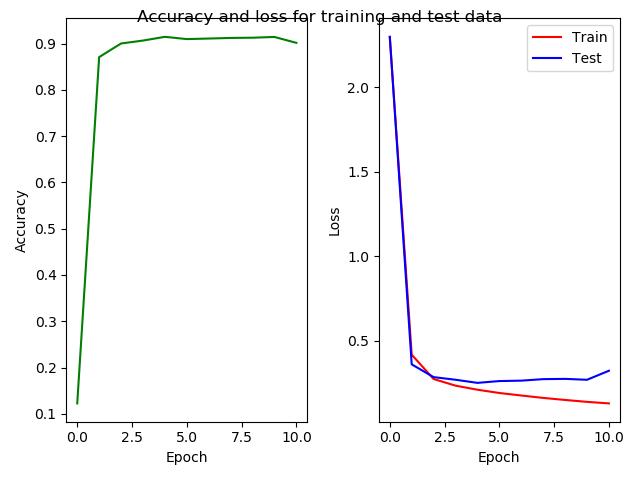
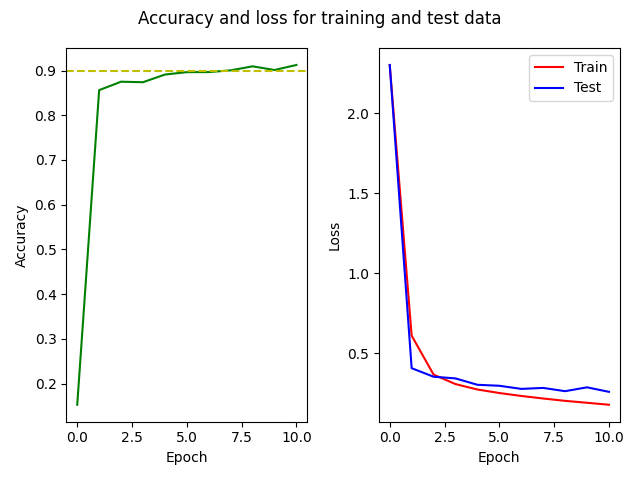
Change layer structure to increase performance

diff --git a/Homework 05/MyModel.py b/Homework 05/MyModel.py
@@ -1,4 +1,4 @@
-from tensorflow.keras.layers import Conv2D, Flatten, Dense
+from tensorflow.keras.layers import Conv2D, Flatten, Dense, GlobalAveragePooling2D
 import tensorflow as tf
 import numpy as np
 
@@ -8,13 +8,25 @@ class MyModel(tf.keras.Model):
         super(MyModel, self).__init__()
 
         self.layer_list = [
-            tf.keras.layers.Conv2D(filters=32, kernel_size=(3,3), activation="relu", padding='same'),
-            tf.keras.layers.Conv2D(filters=64, kernel_size=(3,3), activation="relu", padding='same'),
-            tf.keras.layers.MaxPool2D(pool_size=(3, 3), strides=(3,3), padding='same'), # pool size = stride size
 
-            tf.keras.layers.Flatten(),
+            # Increase number of filters after first MaxPool -> Performance gain
+            # padding='valid' -> Reduces output size
+            tf.keras.layers.Conv2D(filters=32, kernel_size=(5,5), strides=(1,1), activation="relu", padding='valid'),
+            tf.keras.layers.Conv2D(filters=32, kernel_size=(5,5), strides=(1,1), activation="relu", padding='valid'),
+
+            # Pooling: pool size = stride size
+            tf.keras.layers.MaxPool2D(pool_size=(3, 3), strides=(3,3), padding='same'), 
+            
+            # Now: Increase number of filters gradually per layer
+            tf.keras.layers.Conv2D(filters=64, kernel_size=(3,3), strides=(1,1), activation="relu", padding='valid'),
+            tf.keras.layers.Conv2D(filters=128, kernel_size=(3,3), strides=(1,1), activation="relu", padding='valid'),
+
+            # Vectorize = Flatten by taken avg -> Sum up all 128 resulting matrices (filters) from previous layer to 128 values
+            # Each matrix (filter) is reduced to a single value (average)
+            tf.keras.layers.GlobalAveragePooling2D(),
 
             tf.keras.layers.Dense(10, activation=tf.nn.softmax)
+
         ]
 
     @tf.function

diff --git a/Homework 05/Training.py b/Homework 05/Training.py
@@ -70,6 +70,10 @@ def main():
     # First subplot
     plt.subplot(121)
     plt.plot(x, test_accuracies, 'g')
+
+    # Dashed line for 0.9 Accuracy
+    plt.axhline(y=0.9, color='y', linestyle='--')
+
     plt.xlabel("Epoch")
     plt.ylabel("Accuracy")
 
